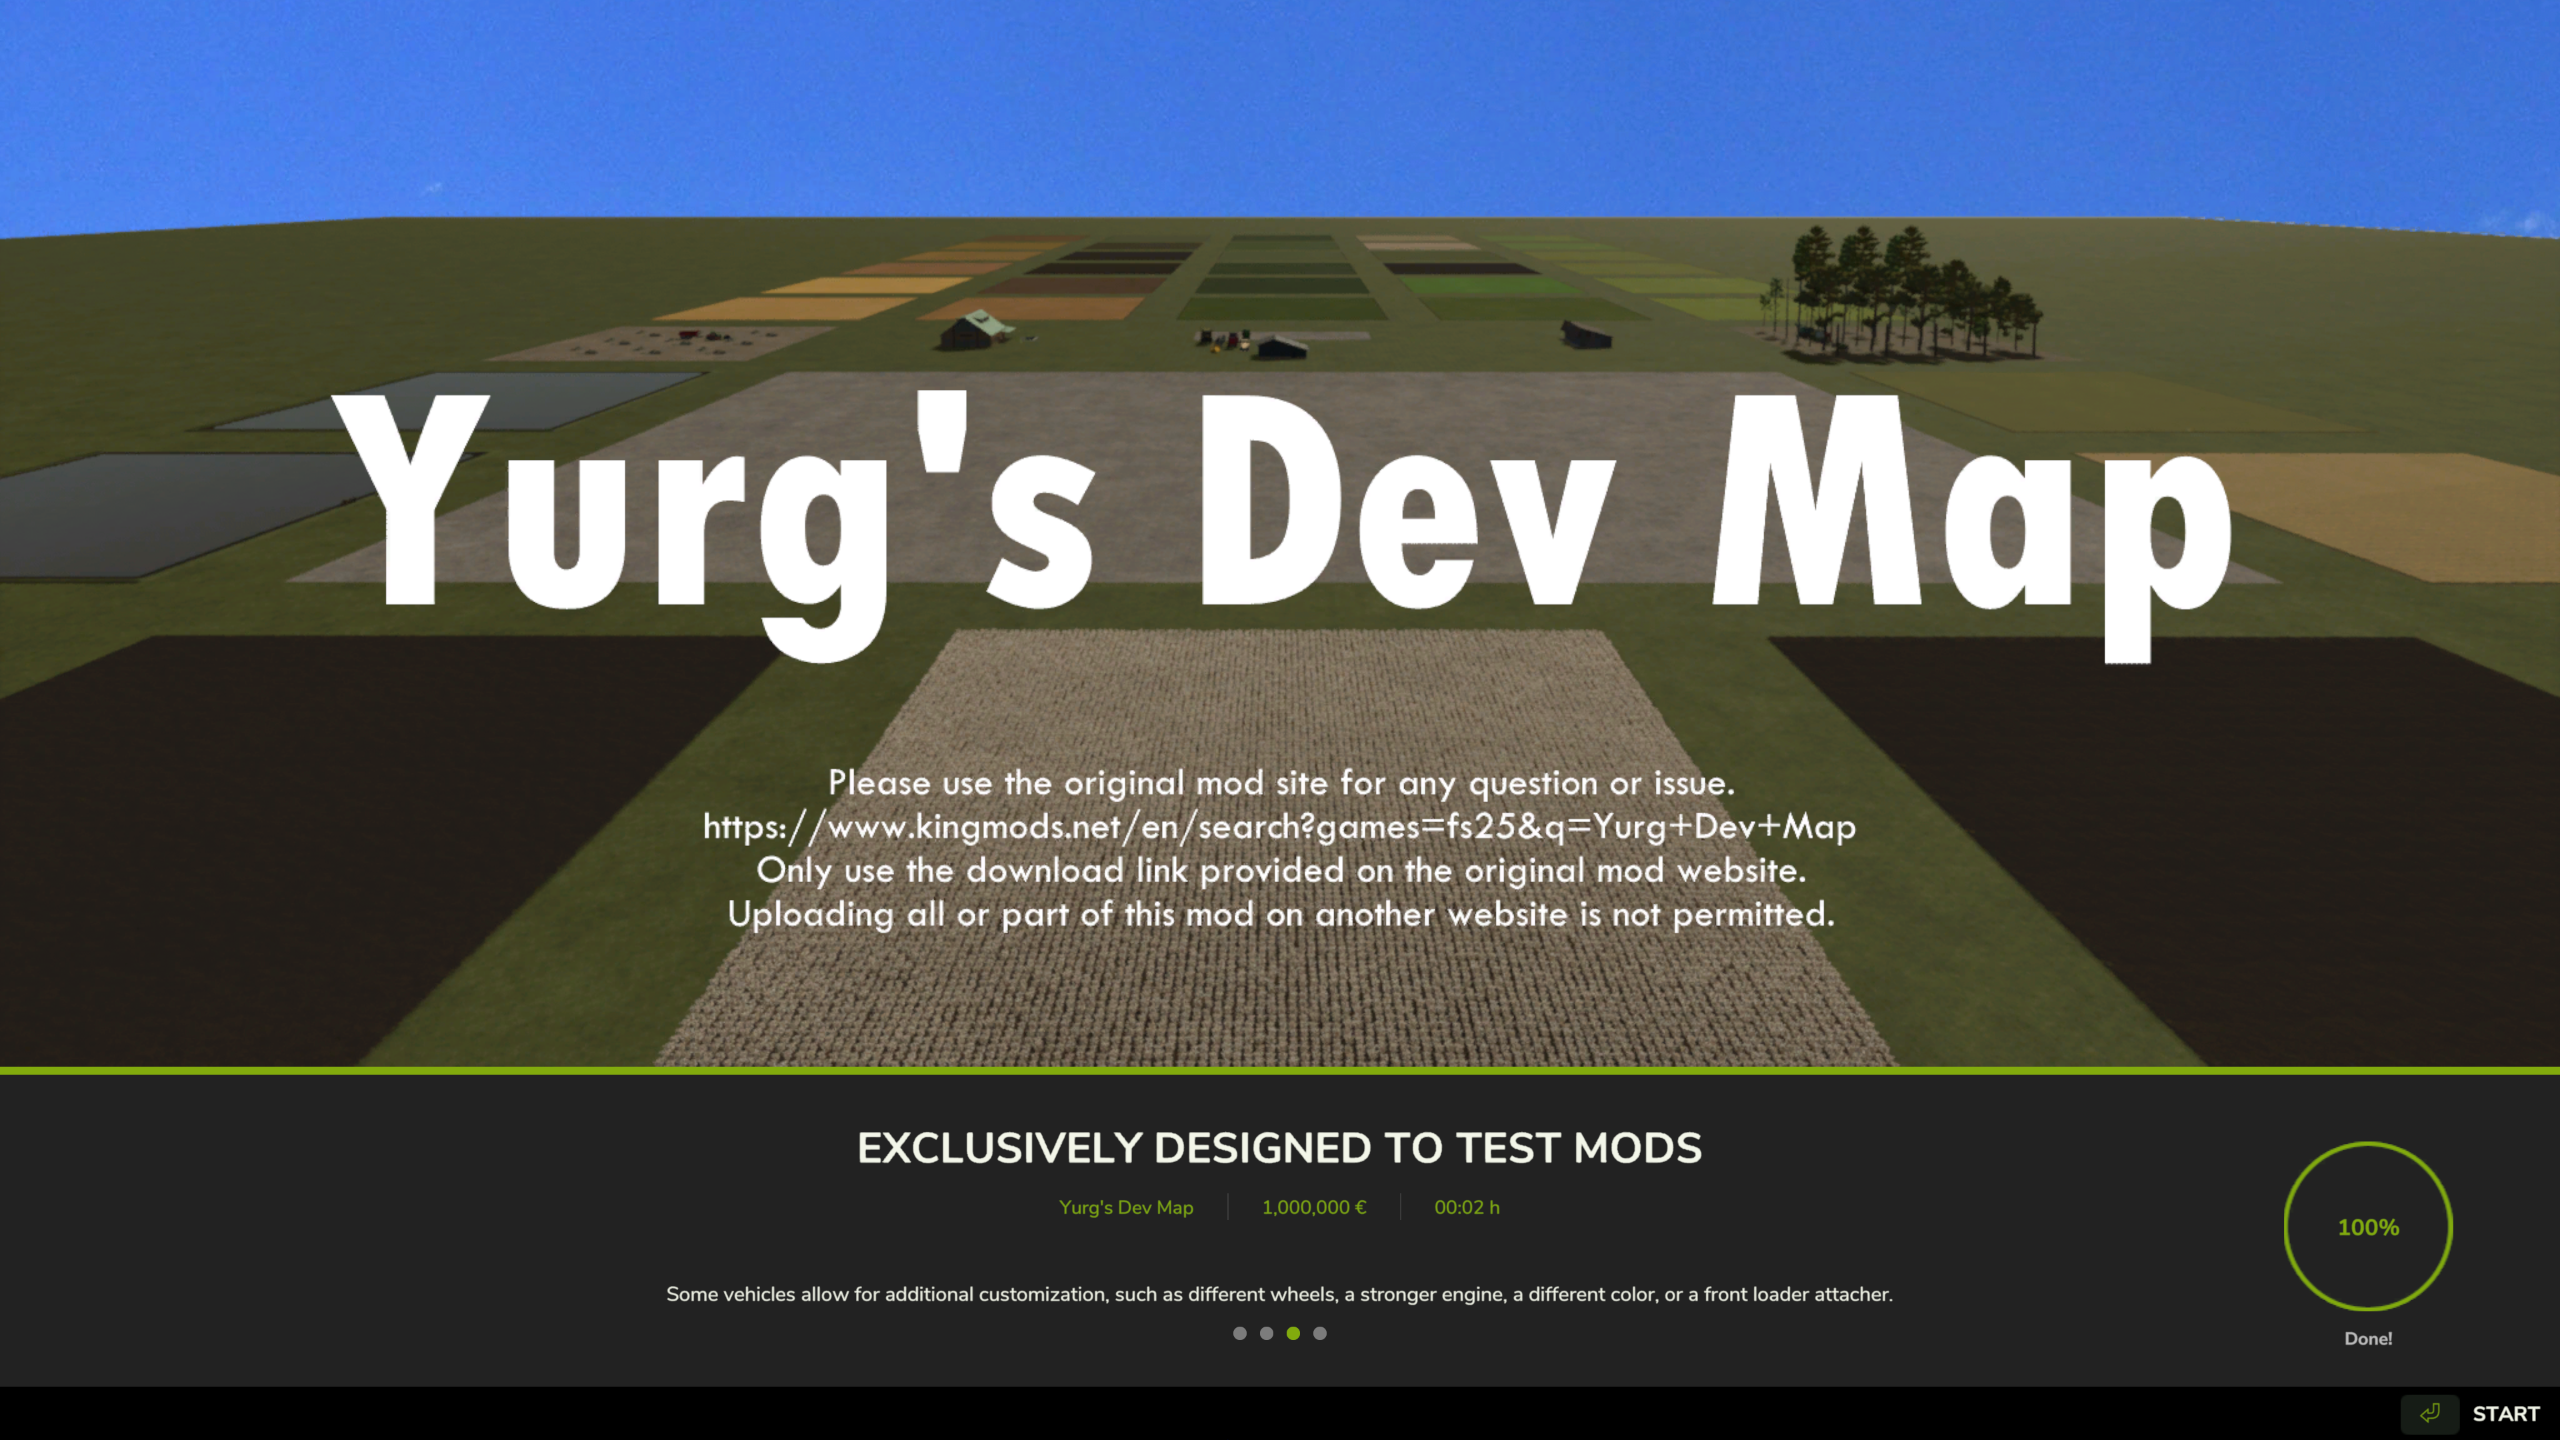
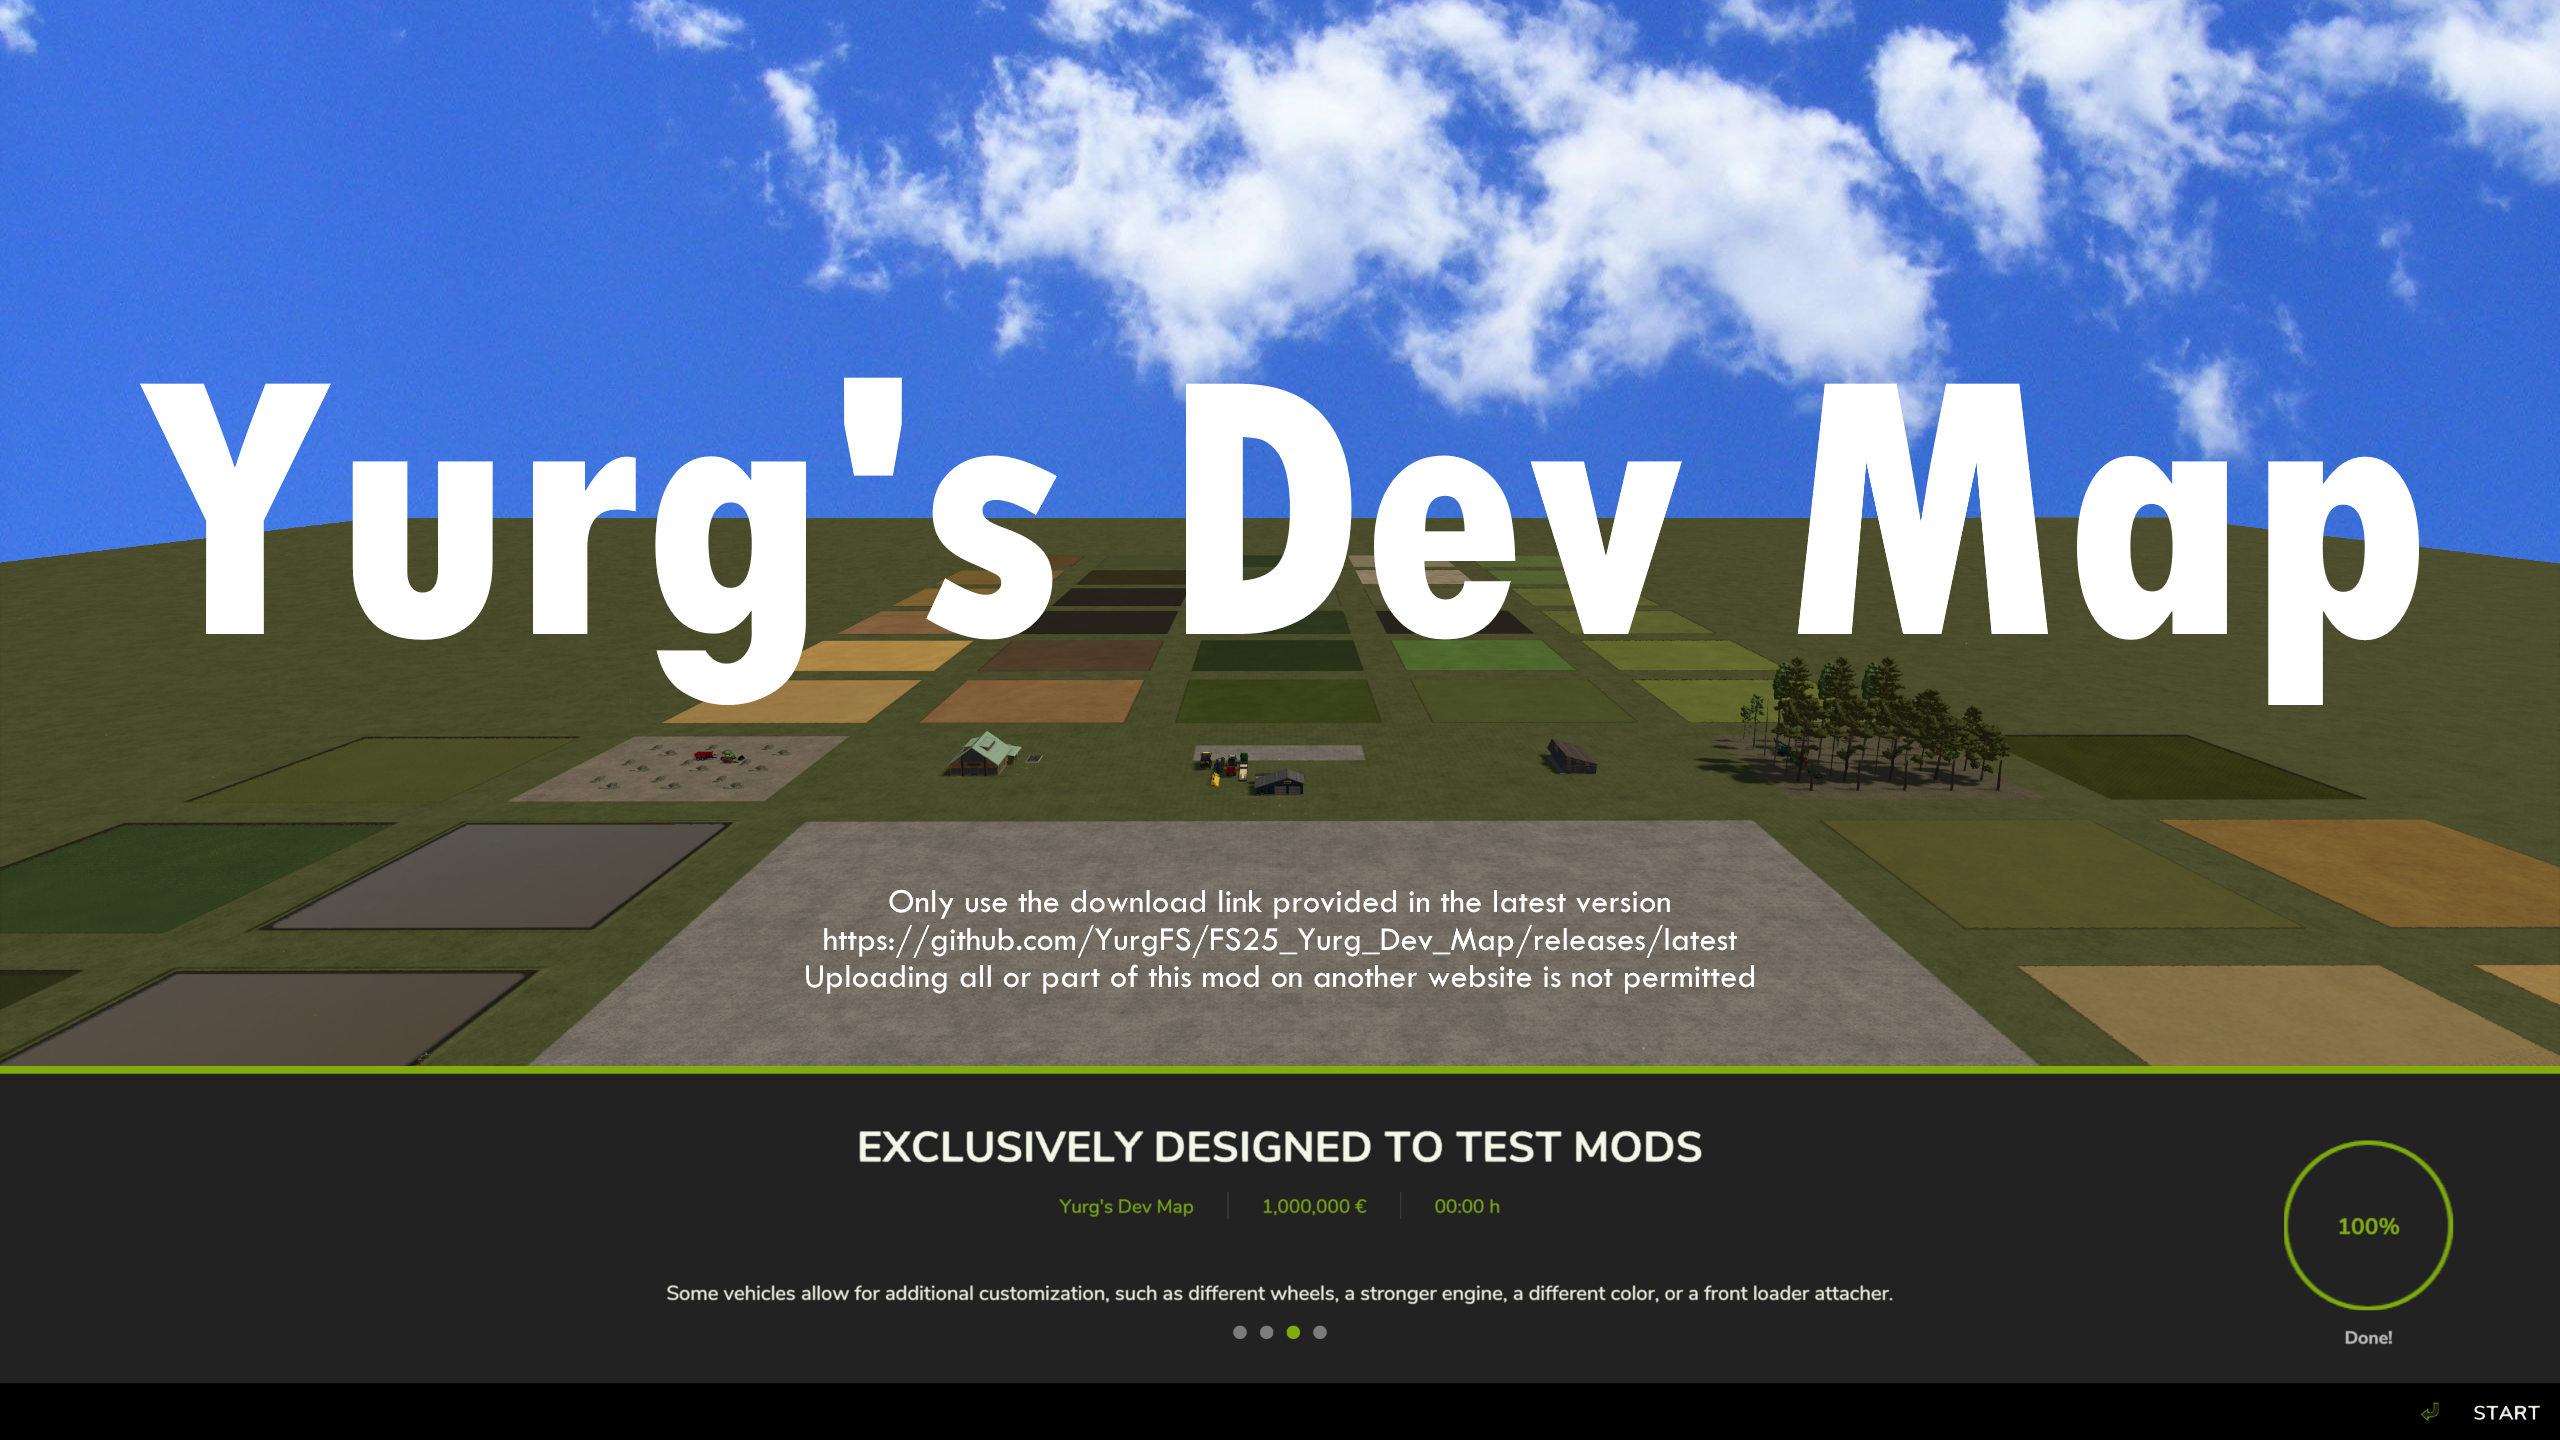
v0.0.0.8 (#2)

diff --git a/README.md b/README.md
@@ -14,32 +14,35 @@ Therefore do not hesitate to rate the mod after you have tested it, and/or add a
 
 Your comments and suggestions are welcome.
 
+## Why this map?
+
 I know we can use some console commands like ggsI3DCacheClean, gsStoreItemsReload, gsVehicleReload
 
-But we finally often need to restart the game, reason why I decided to create a light fast loading map for mod tests.
+But in the end we often need to restart the game, reason why I decided to create a light, fast-loading map for mod testing.
+
+## What does it offer?
 
 It comes with:
 - vehicle shop & animal dealer triggers
-- a farm house, workshop, farmer's market and sawmilluse
+- a farm house, workshop, farmer's market and sawmill
 - 6 golden apples that will give you 2M each if you need money
-  (if you as lazy as I am to use the console commands)
 - fields for all crops ready to harvest
 - fields for wheat at distinct growing stages
 - grapes & olives at distinct growing stages
 - trees at different growing stages & a few rocks
 - some fields with nothing on it to test implements
 - some vehicles ready to use
-
-That is strange but we can have rice ready to harvest out of a rice field...
-
-I will try to update it later on with some things like:
-- rice field addition
-- distinct levels of fertilization, lime, stone, weed
-- ...
+- mission might be available (12 unowned fields for that purpose)
 
 Based on Sample Mod Map by GWENDAL
 - https://www.kingmods.net/en/fs25/mods/59470/sample-mod-map
 - https://www.youtube.com/@GWENDALYT
+
+
+# Recommend Mods
+
+Here is a list of mods I do recommend:
+- https://www.kingmods.net/en/fs25/packs/3529/recommended-mods
 
 
 # Support
@@ -47,12 +50,6 @@ Based on Sample Mod Map by GWENDAL
 For any issue, suggestion or question, please use one of the following:
 - https://github.com/YurgFS/FS25_Yurg_Dev_Map/issues/new/choose
 - https://www.kingmods.net/en/search?games=fs25&q=Yurg+Dev+Map
-
-
-# Recommend Mods
-
-Here is a list of mods I do recommend:
-- https://www.kingmods.net/en/fs25/packs/3529/recommended-mods
 
 
 # Licence
@@ -78,7 +75,7 @@ Here is a list of mods I do recommend:
   <img alt="ND" src="res/cc/cc-nd.svg" width="24">
 </picture>
 
-Yurg's Custom Pack © 2024 by Yurg is licensed under Creative Commons Attribution-NonCommercial-NoDerivatives 4.0 International.
+Yurg's Dev Map © 2024 by Yurg is licensed under Creative Commons Attribution-NonCommercial-NoDerivatives 4.0 International.
 - BY: Credit must be given to the creator.
 - NC: Only noncommercial use of my work is permitted.
 - ND: No derivatives or adaptations of my work are permitted.

diff --git a/CHANGELOG.md b/CHANGELOG.md
@@ -1,0 +1,57 @@
+
+## beta  v0.0.0.8 (06/01/2025)
+
+NPC positions update 
+
+As some mods have an effect on missions, missions have been activated, and to this end 12 unowned fields have been added as well as mission positions.
+
+
+## beta  v0.0.0.7 (31/12/2024)
+
+Addition of grapes & olives at distinct growing stages
+
+Addition of some placeables:
+- farm house
+
+
+## beta  v0.0.0.6 (30/12/2024)
+
+Addition of some placeables:
+- 2 flooded empty ricefields
+- workshop
+- farmer's market
+- sawmill
+
+Addition of some vehicles in the rocks field
+
+
+## beta  v0.0.0.5 (30/12/2024)
+
+> [!WARNING]
+> Complete rework of the map but as a side effect you will have to start a new save.
+> Anyway, as this map is not intended to be played for long or even saved, it probably does not matter so much.
+
+More fields & bigger ones (as requested)
+
+
+## beta  v0.0.0.4 (29/12/2024)
+
+One tree was not placed as it should have, it has been fixed.
+And more trees have been added at the same time.
+
+
+## beta  v0.0.0.3 (28/12/2024)
+
+Addition of Trees (as requested)
+
+
+## beta  v0.0.0.2 (28/12/2024)
+
+mapPreview.dds update
+mapIcon.dds update
+mapOverview.dds update
+
+
+## beta v0.0.0.1 (28/12/2024)
+
+Initial Release
